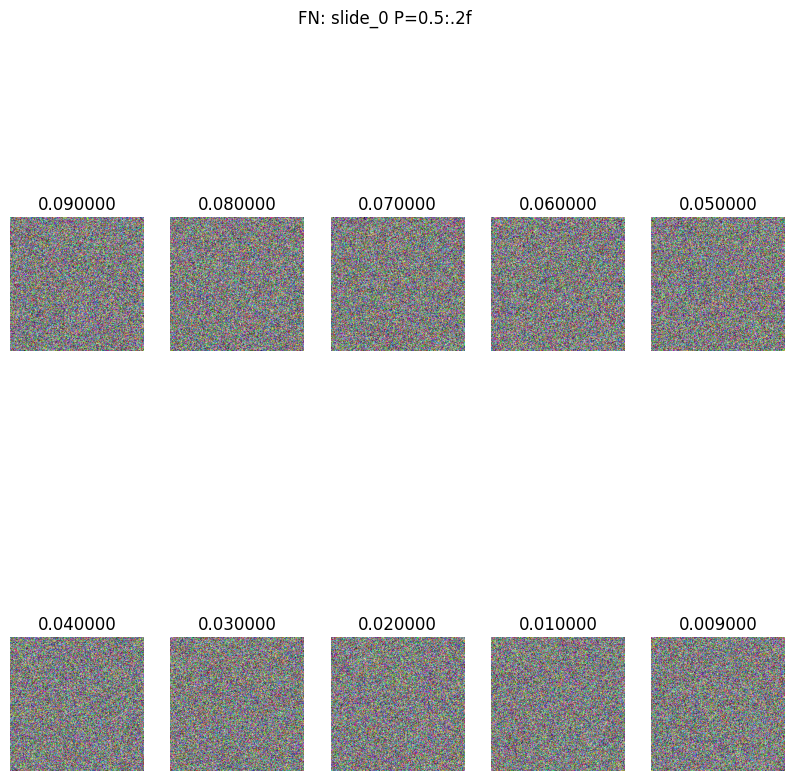
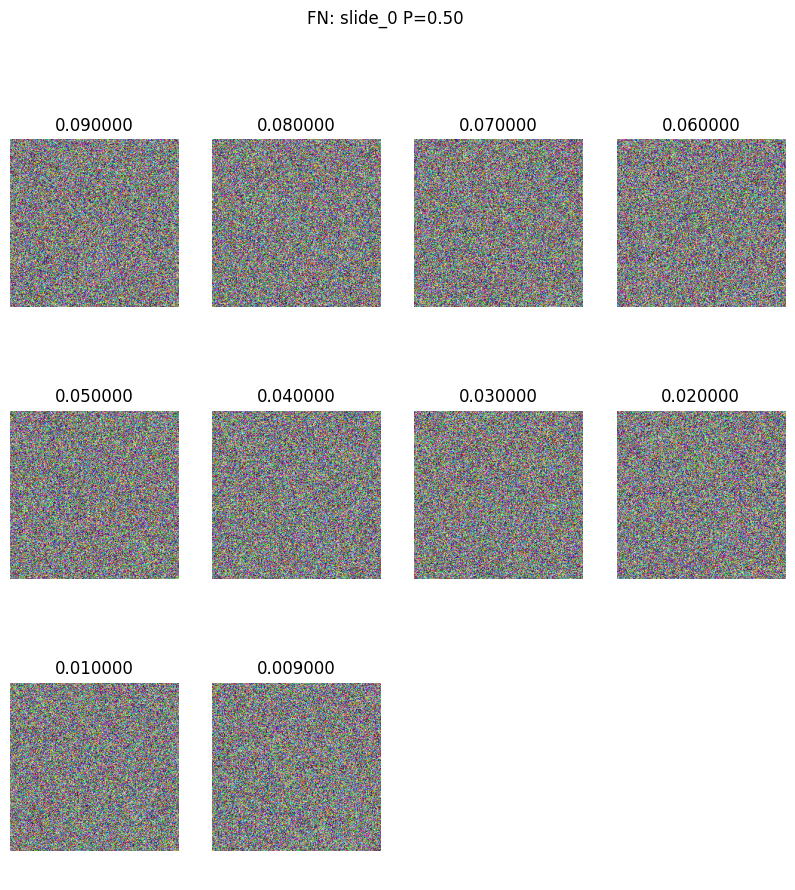
fix test plots

diff --git a/hi-ml-histopathology/src/histopathology/utils/top_bottom_tiles_utils.py b/hi-ml-histopathology/src/histopathology/utils/top_bottom_tiles_utils.py
@@ -82,8 +82,8 @@ class SlideNode:
         return SlideNode(self.slide_id, self.prob_score)
 
     def plot_attention_tiles(
-        self, tile_nodes: List[TileNode], case: str, n_columns: int = 5, size: Tuple[int, int] = (10, 10)
-    ) -> Optional[plt.Figure]:
+        self, tile_nodes: List[TileNode], case: str, n_columns: int = 4, size: Tuple[int, int] = (10, 10)
+    ) -> plt.Figure:
         """Plot and save top or bottom tiles figures with their attention scores.
 
         :param tile_nodes: A tensor of top or bottom tiles nodes.
